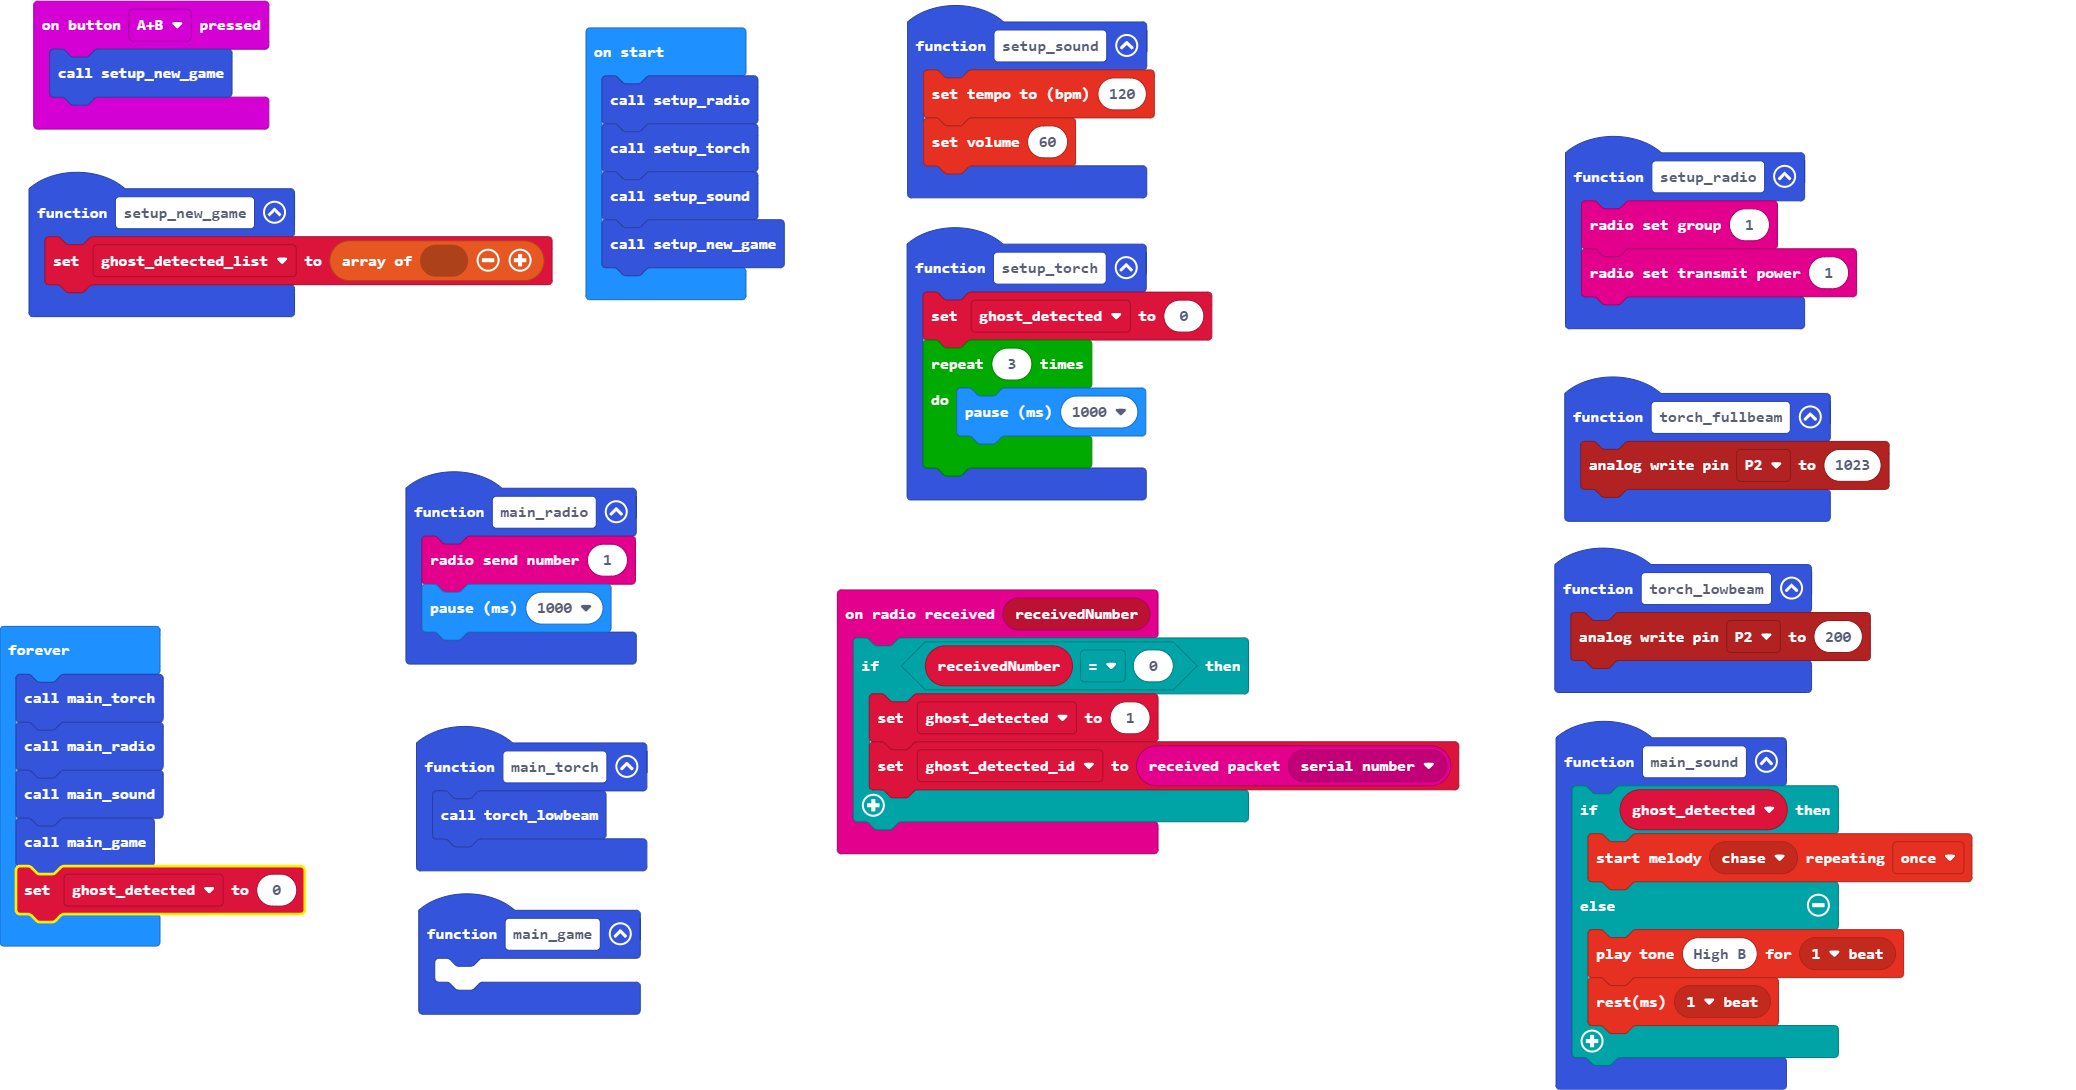
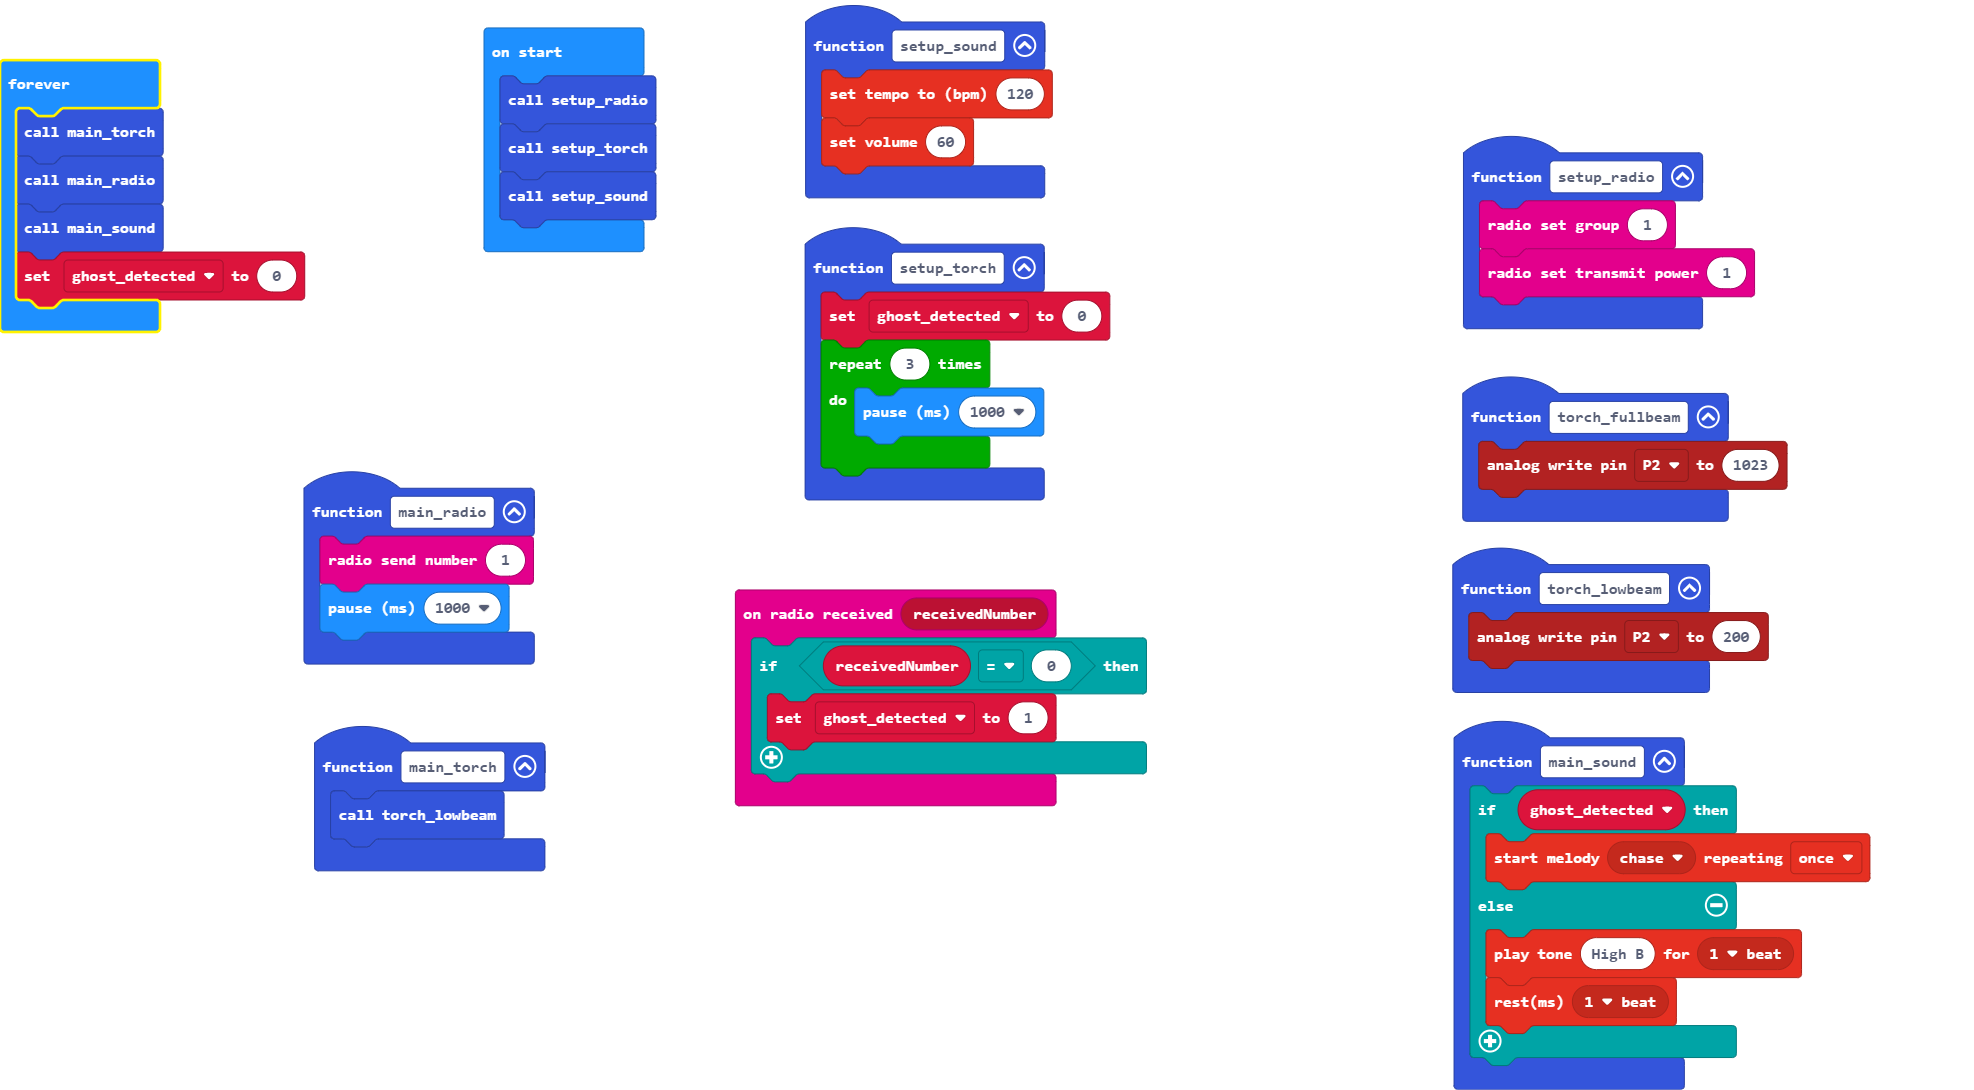
Simplified

diff --git a/main.ts b/main.ts
@@ -1,12 +1,8 @@
 radio.onReceivedNumber(function (receivedNumber) {
     if (receivedNumber == 0) {
         ghost_detected = 1
-        ghost_detected_id = radio.receivedPacket(RadioPacketProperty.SerialNumber)
     }
 })
-function main_game () {
-	
-}
 function main_sound () {
     if (ghost_detected) {
         music.startMelody(music.builtInMelody(Melodies.Chase), MelodyOptions.Once)
@@ -32,14 +28,8 @@ function setup_torch () {
         basic.pause(1000)
     }
 }
-input.onButtonPressed(Button.AB, function () {
-    setup_new_game()
-})
 function torch_lowbeam () {
     pins.analogWritePin(AnalogPin.P2, 200)
-}
-function setup_new_game () {
-    ghost_detected_list = []
 }
 function torch_fullbeam () {
     pins.analogWritePin(AnalogPin.P2, 1023)
@@ -48,17 +38,13 @@ function setup_sound () {
     music.setTempo(120)
     music.setVolume(60)
 }
-let ghost_detected_list: number[] = []
-let ghost_detected_id = 0
 let ghost_detected = 0
 setup_radio()
 setup_torch()
 setup_sound()
-setup_new_game()
 basic.forever(function () {
     main_torch()
     main_radio()
     main_sound()
-    main_game()
     ghost_detected = 0
 })
